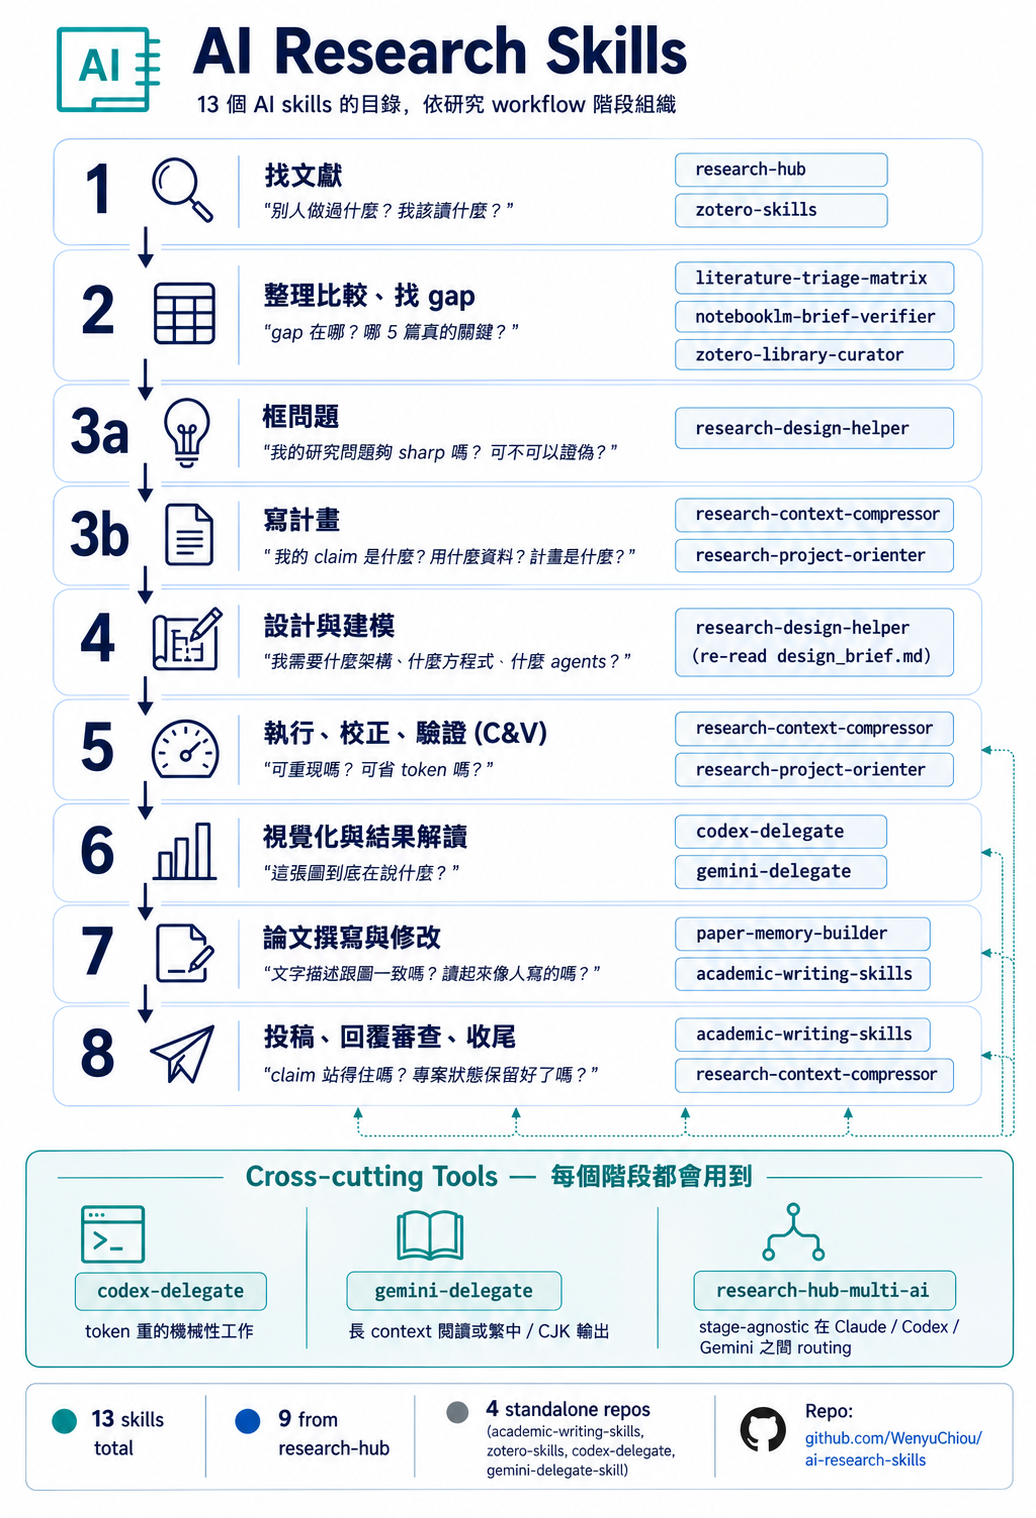
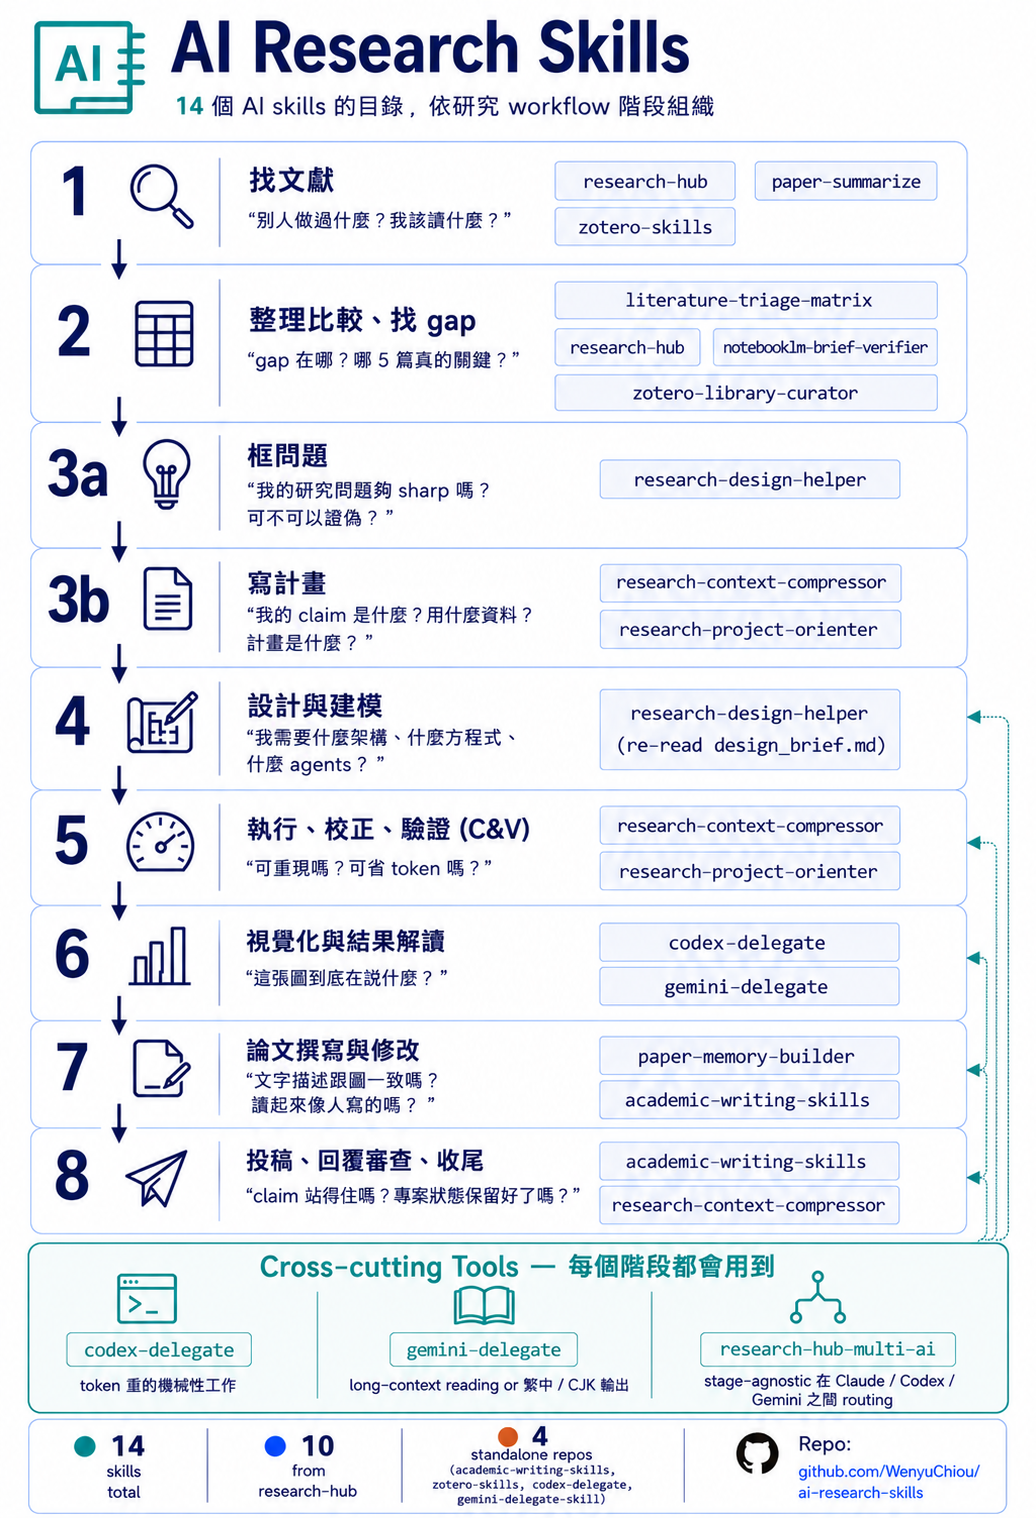
docs(img): regenerate pipeline-overview to show 14 skills + correct counts
The previous pipeline-overview.png / .zh-TW.png showed 13 skills and
predated the paper-summarize / academic-writing-skills inclusions.
Regenerated to match the catalog's actual state:

- All 14 skills present, organized across the 8 research workflow
  stages from docs/pipeline.md.
- Stage 1 (Discover literature) now includes paper-summarize.
- Stage 2 (Organise & compare) now includes research-hub (per
  pipeline.md: builds the Obsidian cluster + NotebookLM source bundle).
- Stage 3b and Stage 5 both show research-context-compressor +
  research-project-orienter as parallel pill chips.
- Cross-cutting band still shows codex-delegate, gemini-delegate, and
  research-hub-multi-ai with one-line descriptions.
- Bottom legend reads "14 skills total" / "10 from research-hub" /
  "4 standalone repos" / repo URL.

Also adds docs/img/pipeline-overview-prompt.md — the canonical
ChatGPT-image-gen prompt used for this regen, including the known
iteration pitfalls captured during the 2026-05-12 round (Stage 2
research-hub drop, badge undercount, "(you do this)" leak, Stage 8
quote-language drift). Saves the next maintainer from re-discovering
those failure modes.

docs/img/README.md updated to point at the prompt file instead of
the prior "regenerate when count changes" TODO.

Changed region(s): [[0.0, 0.0, 0.9884, 1.0]]

diff --git a/docs/img/pipeline-overview-prompt.md b/docs/img/pipeline-overview-prompt.md
@@ -1,0 +1,140 @@
+# Canonical Prompt — `pipeline-overview.png`
+
+This is the working ChatGPT-image-gen prompt used to produce
+`pipeline-overview.png` (EN) and `pipeline-overview.zh-TW.png` (繁中)
+in 2026-05-12. Reuse when the skill count or stage mapping changes.
+
+**Why save the prompt**: getting the chip placement right took
+multiple iterations (paper-summarize missing, research-hub missing
+from Stage 2, badge count off, etc.). Re-running this prompt verbatim
+short-circuits all that.
+
+## Pre-conditions before regenerating
+
+1. Confirm canonical 14-skill list against
+   [`docs/skill-directory.md`](../skill-directory.md) and
+   [`docs/pipeline.md`](../pipeline.md). If the count has changed,
+   update the prompt below before sending.
+2. Confirm the badge counts:
+   - Total skills = sum across all 5 plugins (currently 14).
+   - "from research-hub" = `research-hub` plugin count
+     (currently 10: research-hub, research-hub-multi-ai,
+     research-design-helper, research-context-compressor,
+     research-project-orienter, literature-triage-matrix,
+     paper-memory-builder, paper-summarize,
+     notebooklm-brief-verifier, zotero-library-curator).
+   - "standalone repos" = the other 4 plugins
+     (academic-writing-skills, zotero-skills, codex-delegate,
+     gemini-delegate-skill).
+
+## English prompt
+
+```
+Create a vertical infographic, 1024×1500 px, titled
+"AI Research Skills" with subtitle
+"14 AI skills catalog organized by research workflow stage".
+
+Style: soft blue / white background, single teal accent #2DA89C,
+no orange, no warning colors, every stage same color treatment.
+Skill names rendered as monospace pill chips so they read as code
+identifiers. No human silhouettes, no AI brain logos, no
+gap/warning annotations.
+
+Layout: 8 stages top to bottom, each row has the stage number, an
+icon, a stage title, an italicized quote, and the relevant skill
+chips.
+
+Stages and their exact chip sets (must be present, no omissions):
+
+1. Discover literature
+   Quote: "What has been done? What should I read?"
+   Chips: research-hub, paper-summarize, zotero-skills
+
+2. Organise & compare, find the gap
+   Quote: "Where is the gap? Which 5 papers actually matter?"
+   Chips: literature-triage-matrix, research-hub,
+          notebooklm-brief-verifier, zotero-library-curator
+
+3a. Frame the problem
+   Quote: "Is my research question sharp enough to be falsifiable?"
+   Chips: research-design-helper
+
+3b. Plan the project (capture artifacts)
+   Quote: "What am I claiming, with what data, and what's my plan?"
+   Chips: research-context-compressor, research-project-orienter
+
+4. Design & build the model
+   Quote: "What architecture, equations, agents do I need?"
+   Chips: research-design-helper (re-read design_brief.md)
+
+5. Run experiments, calibrate, validate (C&V)
+   Quote: "Is the run reproducible? Can I save tokens?"
+   Chips: research-context-compressor, research-project-orienter
+
+6. Visualise & interpret results
+   Quote: "What does the figure actually show?"
+   Chips: codex-delegate, gemini-delegate
+
+7. Draft & revise the manuscript
+   Quote: "Does the prose match the figure? Sound human?"
+   Chips: paper-memory-builder, academic-writing-skills
+
+8. Submit, respond to reviewers, wrap up
+   Quote: "Are claims defensible? Is project state preserved?"
+   Chips: academic-writing-skills, research-context-compressor
+
+Below the 8 stages, a separate "Cross-cutting Tools — Used at Every
+Stage" band with three pill chips and one-line descriptions:
+- codex-delegate — "token-heavy mechanical work"
+- gemini-delegate — "long-context reading or 繁中 / CJK output"
+- research-hub-multi-ai — "stage-agnostic routing across
+  Claude / Codex / Gemini"
+
+Dotted teal lines from this band back up to the stages each tool
+supports (keep it readable, not all stages need a line).
+
+Bottom legend (left to right):
+- "14 skills total"
+- "10 from research-hub"
+- "4 standalone repos (academic-writing-skills, zotero-skills,
+   codex-delegate, gemini-delegate-skill)"
+- "Repo: github.com/WenyuChiou/ai-research-skills"
+```
+
+## 繁中 prompt
+
+Same as English, except:
+
+- Title: "AI Research Skills"
+- Subtitle: "14 個 AI skills 的目錄，依研究 workflow 階段組織"
+- Stage names + quotes in 繁中:
+  1. 找文獻 — "別人做過什麼？我該讀什麼？"
+  2. 整理比較、找 gap — "gap 在哪？哪 5 篇真的關鍵？"
+  3a. 框問題 — "我的研究問題夠 sharp 嗎？可不可以證偽？"
+  3b. 寫計畫 — "我的 claim 是什麼？用什麼資料？計畫是什麼？"
+  4. 設計與建模 — "我需要什麼架構、什麼方程式、什麼 agents？"
+  5. 執行、校正、驗證 (C&V) — "可重現嗎？可省 token 嗎？"
+  6. 視覺化與結果解讀 — "這張圖到底在說什麼？"
+  7. 論文撰寫與修改 — "文字描述跟圖一致嗎？讀起來像人寫的嗎？"
+  8. 投稿、回覆審查、收尾 — "claim 站得住嗎？專案狀態保留好了嗎？"
+- Cross-cutting band: "Cross-cutting Tools — 每個階段都會用到"
+  - codex-delegate — "token 重的機械性工作"
+  - gemini-delegate — "long-context reading or 繁中 / CJK 輸出"
+  - research-hub-multi-ai — "stage-agnostic 在 Claude / Codex /
+    Gemini 之間 routing"
+- Skill chip names stay in English (skill names don't translate).
+
+## Known iteration pitfalls (from 2026-05-12 regen)
+
+- ChatGPT will sometimes drop `research-hub` from Stage 2 — it has
+  to be re-listed explicitly. Stage 2 needs **four** chips.
+- ChatGPT will sometimes write the "from research-hub" badge as 8
+  or 9. It must be **10**. Re-emphasize in follow-up if needed.
+- ChatGPT may add a "(you do this)" annotation to a stage title.
+  Strip in follow-up.
+- ChatGPT may leak an English quote into a Chinese stage in the
+  zh-TW version. Re-translate in follow-up.
+- For incremental fixes after a draft, write them as a numbered
+  diff against the previous image, not as a fresh prompt. Otherwise
+  ChatGPT re-imagines the layout and loses chip placements that
+  were already correct.

diff --git a/docs/img/README.md b/docs/img/README.md
@@ -6,7 +6,7 @@ Image files for the catalog README + social preview.
 
 | Filename | Used by | Notes |
 |---|---|---|
-| `pipeline-overview.png` | Top of [`README.md`](../../README.md) | Vertical infographic, 1024×1500, 8-stage research pipeline + 14 skills + cross-cutting tools band. (Regenerate when the skill count changes; the current PNG may still show an older count until regen.) |
+| `pipeline-overview.png` | Top of [`README.md`](../../README.md) | Vertical infographic, 1024×1500, 8-stage research pipeline + 14 skills + cross-cutting tools band. Regenerate via ChatGPT image gen when skill count or stage mapping changes — see `pipeline-overview-prompt.md` in this folder for the canonical prompt. |
 | `pipeline-overview.zh-TW.png` | Top of [`README.zh-TW.md`](../../README.zh-TW.md) | Chinese-language mirror of `pipeline-overview.png`. |
 | `social-preview.png` | GitHub repo Settings → Social preview | Horizontal 1280×640 hero used when the repo URL is shared on Twitter / Threads / LinkedIn / Slack. Upload manually via repo Settings → General → Social preview (GitHub has no API for this). |
 